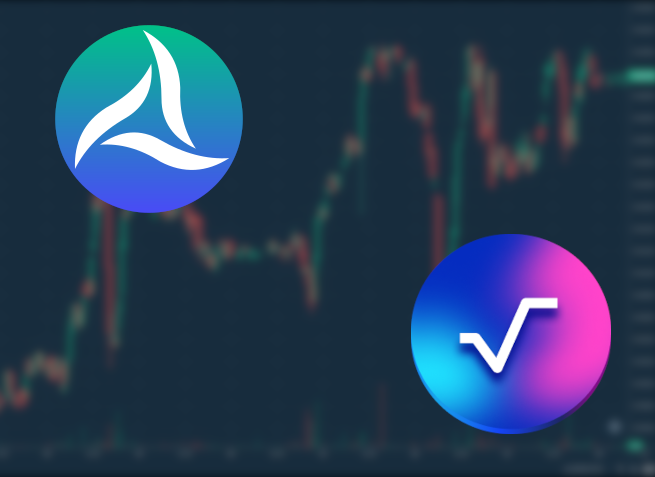
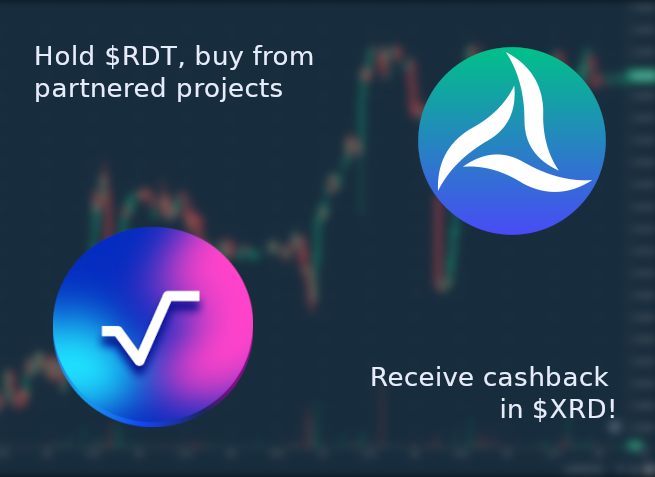
stake section

diff --git a/src/assets/templates/stake.html b/src/assets/templates/stake.html
@@ -1,0 +1,120 @@
+<!-- Start Section -->
+<section class="section bg-theme pb-0 ov-h" id="stake">
+
+  <main class="nk-pages fade-in">
+    <section>
+      <div class="container">
+        <div class="nk-block">
+          <div class="row justify-content-center">
+            <div class="col-lg-8 col-mb-10">
+              <div class="nk-block-text ">
+                <h2 class="title tc-secondary">Stake with us</h2>
+                <p class="lead tc-light">Our Radiator ("RADix validATOR") node is run by german Radix community members.
+                  The node runs on a 24/7 monitored ESXi Cluster with automatic backups. To optimize handling of
+                  updates, one node is always up and running.
+                </p>
+                <p class="tc-light">Not only will you receive passive income by staking on the Radiator
+                  node ($XRD token with ~9% APY), but also you will receive our $RDT cashback utility token via frequent
+                  airdrops. The more $XRD you stake, the more $RDT you will receive. But everybody will receive a fair
+                  share.
+                </p>
+              </div>
+            </div>
+          </div>
+        </div>
+      </div>
+    </section>
+    <!-- // -->
+    <section class="section">
+      <div class="container">
+        <div class="nk-block nk-block-text-wrap">
+          <div class="row align-items-center gutter-vr-30px justify-content-lg-between justify-content-center">
+            <div class="col-lg-5 col-mb-10">
+              <div class="nk-block-img gfx-re-mdl py-5 py-lg-0">
+                <img src="assets/images/stake/stake1.png" alt="app">
+              </div>
+            </div>
+            <div class="col-lg-6 col-mb-10">
+              <div class="nk-block-text">
+                <div class="pb-5">
+                  <h2 class="title title-regular tc-light"></h2>
+                  <ul class="list list-check">
+                    <li><span class="tc-light">longtime supporters (staking duration)</span></li>
+                    <li><span class="tc-light">small amount stakers</span></li>
+                    <li><span class="tc-light">big amount stakers (whales)</span></li>
+                  </ul>
+                </div>
+
+              </div>
+            </div>
+          </div><!-- .row -->
+        </div><!-- .block @e -->
+      </div>
+    </section>
+    <!-- // -->
+    <section>
+      <div class="container">
+        <div class="nk-block nk-block-text-wrap">
+          <div class="row align-items-center gutter-vr-30px justify-content-lg-between justify-content-center">
+            <div class="col-lg-5 col-mb-10 order-lg-last">
+              <div class="nk-block-img gfx-re-lg">
+                <img src="assets/images/stake/stake2.png" alt="app">
+              </div>
+            </div>
+            <div class="col-lg-6 col-mb-10">
+              <div class="nk-block-text">
+                <div class="pb-5">
+                  <h2 class="title title-regular tc-light">Conditions</h2>
+                  <p class="tc-light">To ensure everybody receives a fair share at some point, the airdrop parameters
+                    will change
+                    frequently and without prior notice between:
+                  </p>
+                  <ul class="list list-dot">
+                    <li><span class="tc-light">staking duration</span></li>
+                    <li><span class="tc-light">min. stake</span></li>
+                    <li><span class="tc-light">max. stake</span></li>
+                    <li><span class="tc-light">min. airdrop amount per wallet</span></li>
+                    <li><span class="tc-light">max. airdrop amount per wallet</span></li>
+                  </ul>
+                </div>
+              </div>
+            </div>
+          </div><!-- .row -->
+        </div><!-- .block @e -->
+      </div>
+    </section>
+    <!-- // -->
+    <section>
+      <div class="nk-block">
+        <div class="row justify-content-center">
+          <div class="col-lg-8 col-mb-10">
+            <div class="section-head nk-block-text text-center tc-light">
+              <span id="validatorNode">rv1qtm3z8ryf9czeal3unuknedurpxd2lxvz48umryrrznw5queawet28atjna</span>
+              <button class="btn btn-md btn-grad" onclick="copyContent()">Copy</button>
+            </div>
+          </div>
+        </div>
+      </div>
+    </section>
+    <!-- // -->
+    <section>
+      <div class="nk-block">
+        <div class="row justify-content-center">
+          <div class="col-lg-8 col-mb-10">
+            <div class="section-head nk-block-text text-center tc-light">
+              <h2 class="title tc-secondary">How to stake:</h2>
+              <div class="nk-block-img ">
+                <img src="assets/images/stake/staking.gif" alt="app">
+              </div>
+            </div>
+          </div>
+        </div>
+      </div>
+    </section>
+
+  </main>
+
+  <div class="nk-ovm shape-u shape-contain shape-left-top z-0"></div>
+</section>
+
+

diff --git a/src/assets/js/copy-content.js b/src/assets/js/copy-content.js
@@ -1,0 +1,9 @@
+  const copyContent = async () => {
+    let text = document.getElementById('validatorNode').innerHTML;
+    try {
+      await navigator.clipboard.writeText(text);
+      console.log('Content copied to clipboard');
+    } catch (err) {
+      console.error('Failed to copy: ', err);
+    }
+  }

diff --git a/src/index.html b/src/index.html
@@ -115,6 +115,7 @@
   <script src="assets/js/scripts.js?ver=210"></script>
   <script src="assets/js/charts.js?ver=210"></script>
   <script src="assets/js/hash-router.js"></script>
+  <script src="assets/js/copy-content.js"></script>
 </body>
 
 </html>

diff --git a/src/assets/js/hash-router.js b/src/assets/js/hash-router.js
@@ -23,6 +23,9 @@ const routes = {
 	tokenomics: {
 		template: "/assets/templates/tokenomics.html",
 	},
+  stake: {
+    template: "/assets/templates/stake.html",
+  },
 	wallet: {
 		template: "/assets/templates/wallet.html",
 	},
